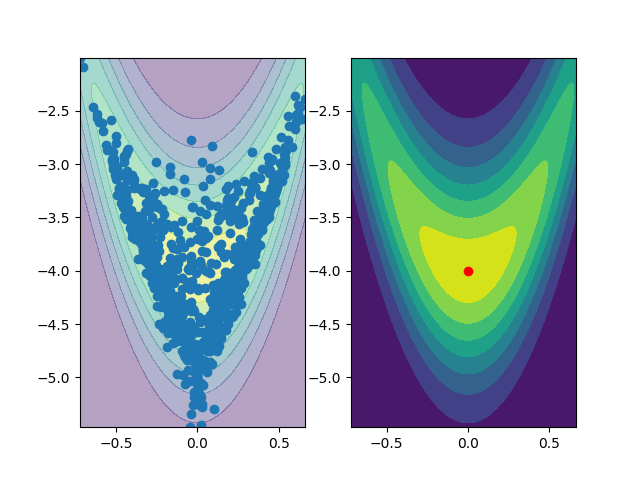
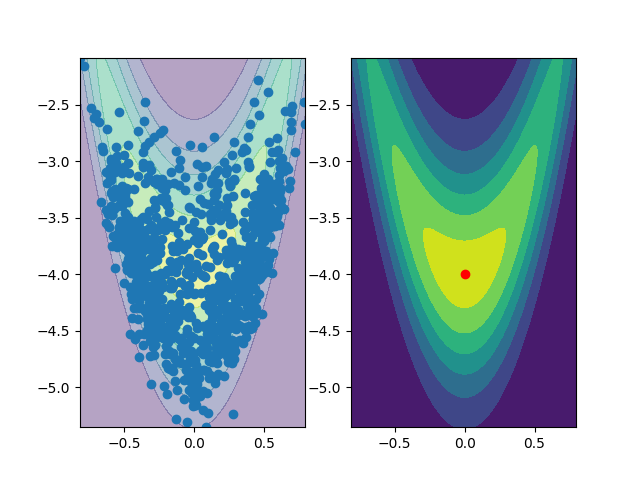
update

diff --git a/rala/laplace.py b/rala/laplace.py
@@ -15,6 +15,7 @@ from jax.flatten_util import ravel_pytree
 class LaplaceMethod(Enum):
     STANDARD = "standard"
     RIEMANN = "riemann"
+    FISHER = "fisher"
 
 
 @jax.jit
@@ -43,7 +44,8 @@ def sample_from_gaussian(
 
 @partial(jax.jit, static_argnames=("logp_fn_flat", "dim"))
 @partial(jax.vmap, in_axes=(0, None, None, None), out_axes=0)
-def expmap(sample: jax.Array, theta_map: jax.Array, logp_fn_flat: Callable, dim: int, dt: float = 0.05):
+def rexpmap(sample: jax.Array, theta_map: jax.Array, logp_fn_flat: Callable, dim: int, dt: float = 0.05):
+    # Exponential map for Riemann
     def geodesic_ode(t, y, args):
         c = y[:dim]
         c_prime = y[dim:]
@@ -67,6 +69,63 @@ def expmap(sample: jax.Array, theta_map: jax.Array, logp_fn_flat: Callable, dim:
     solution = diffeqsolve(term, solver, t0=0, t1=1, dt0=dt, y0=y0)
 
     # Return the position at t=1 (the mapped sample)
+    return solution.ys[-1, :dim]
+
+
+@partial(jax.jit, static_argnames=("metric_fn", "dim", "dt"))
+@partial(jax.vmap, in_axes=(0, None, None, None), out_axes=0)
+def fexpmap(
+    sample: jax.Array,
+    theta_map: jax.Array,
+    metric_fn: callable,
+    dim: int,
+    dt: float = 0.05,
+):
+    def geodesic_ode(t, y, args):
+        theta = y[:dim]
+        theta_prime = y[dim:]
+
+        G = metric_fn(theta)
+        # This seems to be needed; however, it is probably computationally prohibitive in large dimensions
+        G_inv = jnp.linalg.inv(G)
+
+        # Compute the Christoffel contraction
+        # \theta'^{T} G \theta'
+        def v_G_v(theta_val):
+            return jnp.dot(theta_prime, jnp.dot(metric_fn(theta_val), theta_prime))
+
+        # The gradient of this function is \sum_{j} v_{i} \partial_{i} G(\theta) v_{j}
+        # The Christoffel symbols are defined as
+        # .5 \sum_{l} G^{kl} (\partial_{i} G_{jl} + \partial_{j} G_{il} - \partial_{l} G_{ij})
+        # This is \Gamma_{ij}^{k}. Summing over v_i, v_j, we get (since G is symmetric)
+        # .5 \sum_{i, j} v_{i} \sum_{l} G^{kl} (\partial_{i} G_{jl} + \partial_{j} G_{il} - \partial_{l} G_{ij}) v_{j}
+        # = \sum_{i, j} v_{i} \cdot ( \sum_{l} G^{kl} (\partial_{i} G_{jl}) - .5 \sum_{l} \partial_{l} G_{ij} ) v_{j}
+        # = \sum_{i, j} v_{i} v_{j} \sum_{l} \partial_{i} G_{jl} - .5 * v_{i} v_{j} \sum_{l} \partial_{l} G_{ij}
+
+        # The differential of G is a R^{d d d} matrix
+        # Let i, j, k be the indices
+        # This represents the i, j matrix with entries \sum_{k} \partial_{k} G_{ij}(\theta) v_{k}
+        _, term1 = jax.jvp(metric_fn, (theta,), (theta_prime,))
+        # This is a vector s.t. the j-th entry is \sum_{i, k} v_{i} \partial_{k} G_{ij}(\theta) v_{k}
+        # Re-indexing, this becomes (k <-> j)
+        # \sum_{i, j} v_{i} \partial_{j} G_{ik}(\theta) v_{j},
+        # which is exactly the term we needed above for the Christoffel contraction.
+        term1 = term1 @ theta_prime
+        # And this is a vector with entries \sum_{j} v_{i} v_{j} \partial_{i} G_{ij}(\theta) with index i
+        term2 = 0.5 * jax.grad(v_G_v)(theta)
+        acceleration = -G_inv @ (term1 - term2)
+
+        return jnp.concatenate([theta_prime, acceleration])
+
+    # Again, we sample the velocity from the shifted Laplace approximation
+    velocity = sample - theta_map
+    y0 = jnp.concatenate([theta_map, velocity])
+
+    # We use the Dormand-Prince 5/4 method for the corresponding ODE
+    term = ODETerm(geodesic_ode)
+    solver = Dopri5()
+    solution = diffeqsolve(term, solver, t0=0, t1=1, dt0=dt, y0=y0)
+
     return solution.ys[-1, :dim]
 
 
@@ -98,7 +157,14 @@ def laplace_approximation(
 
     match method:
         case LaplaceMethod.RIEMANN:
-            samples = expmap(samples, theta_map, log_p_flat, dim)
+            samples = rexpmap(samples, theta_map, log_p_flat, dim)
+        case LaplaceMethod.FISHER:
+
+            def metric_fn(theta):
+                grad_log_p = jax.grad(log_p_flat)(theta)
+                return jnp.eye(dim) + jnp.outer(grad_log_p, grad_log_p)
+
+            samples = fexpmap(samples, theta_map, metric_fn, dim)
 
     # Apply jax.vmap to unravel so we can unravel multiple samples at the same time
     unravel = jax.vmap(unravel)
